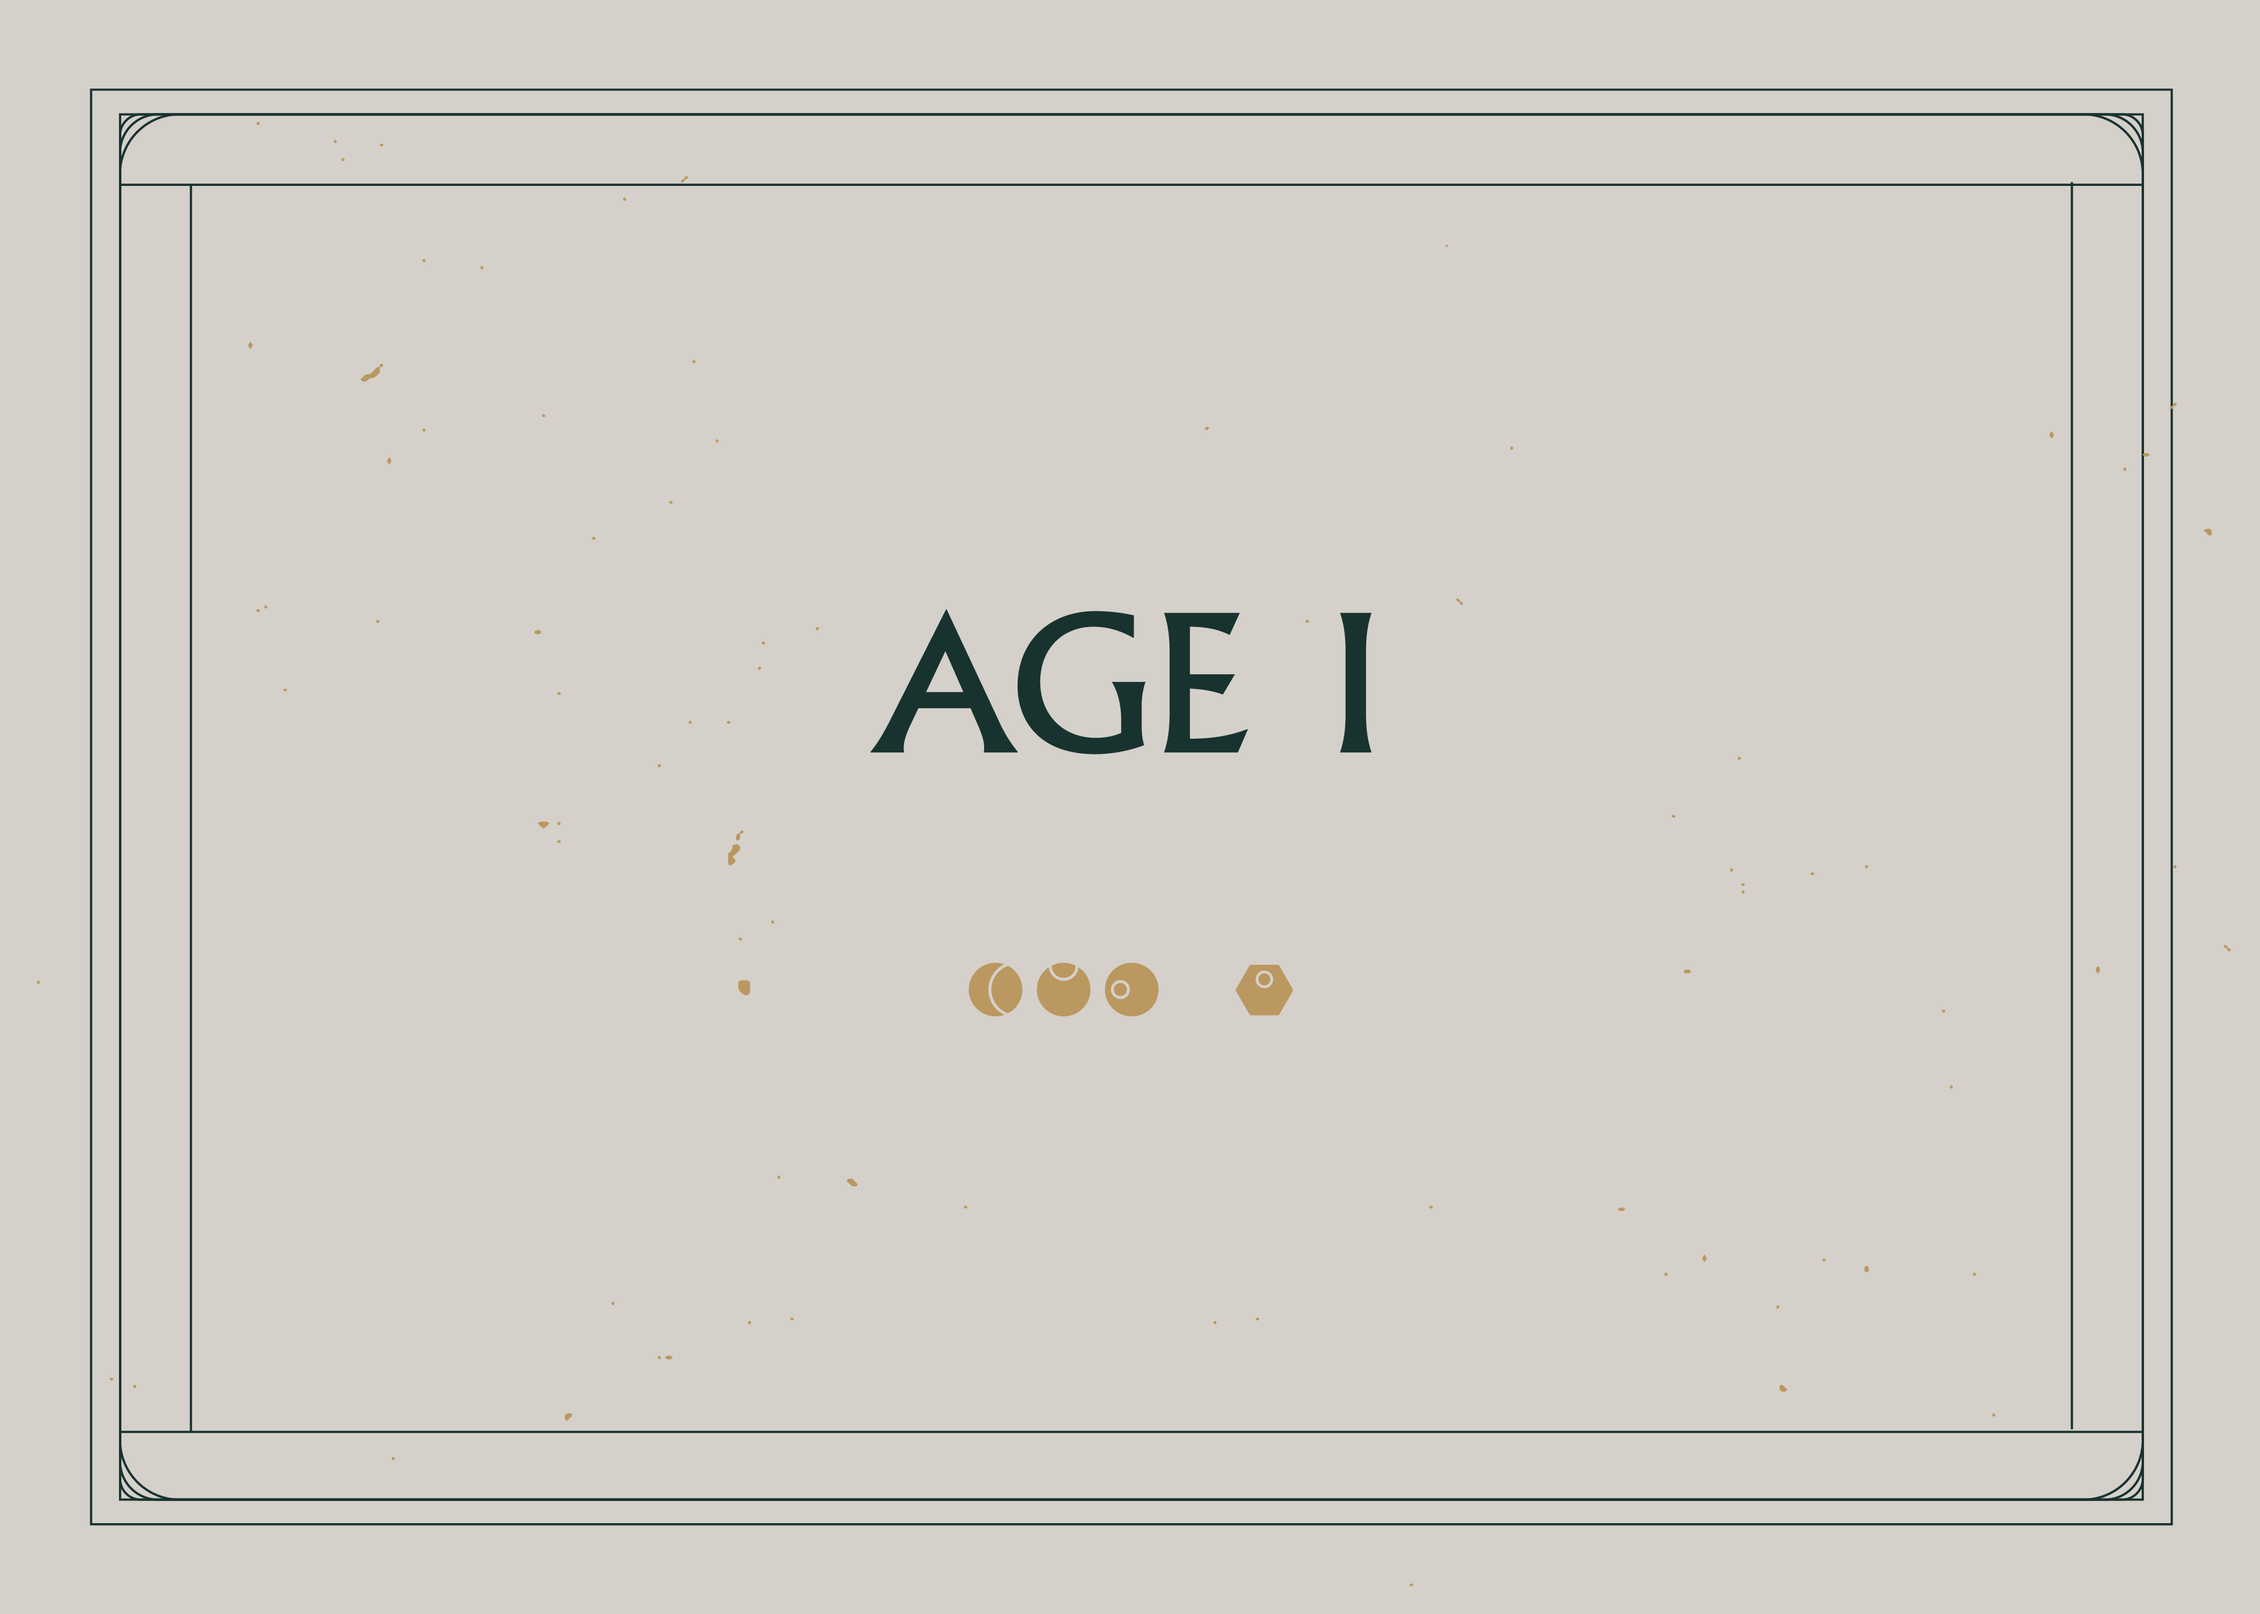
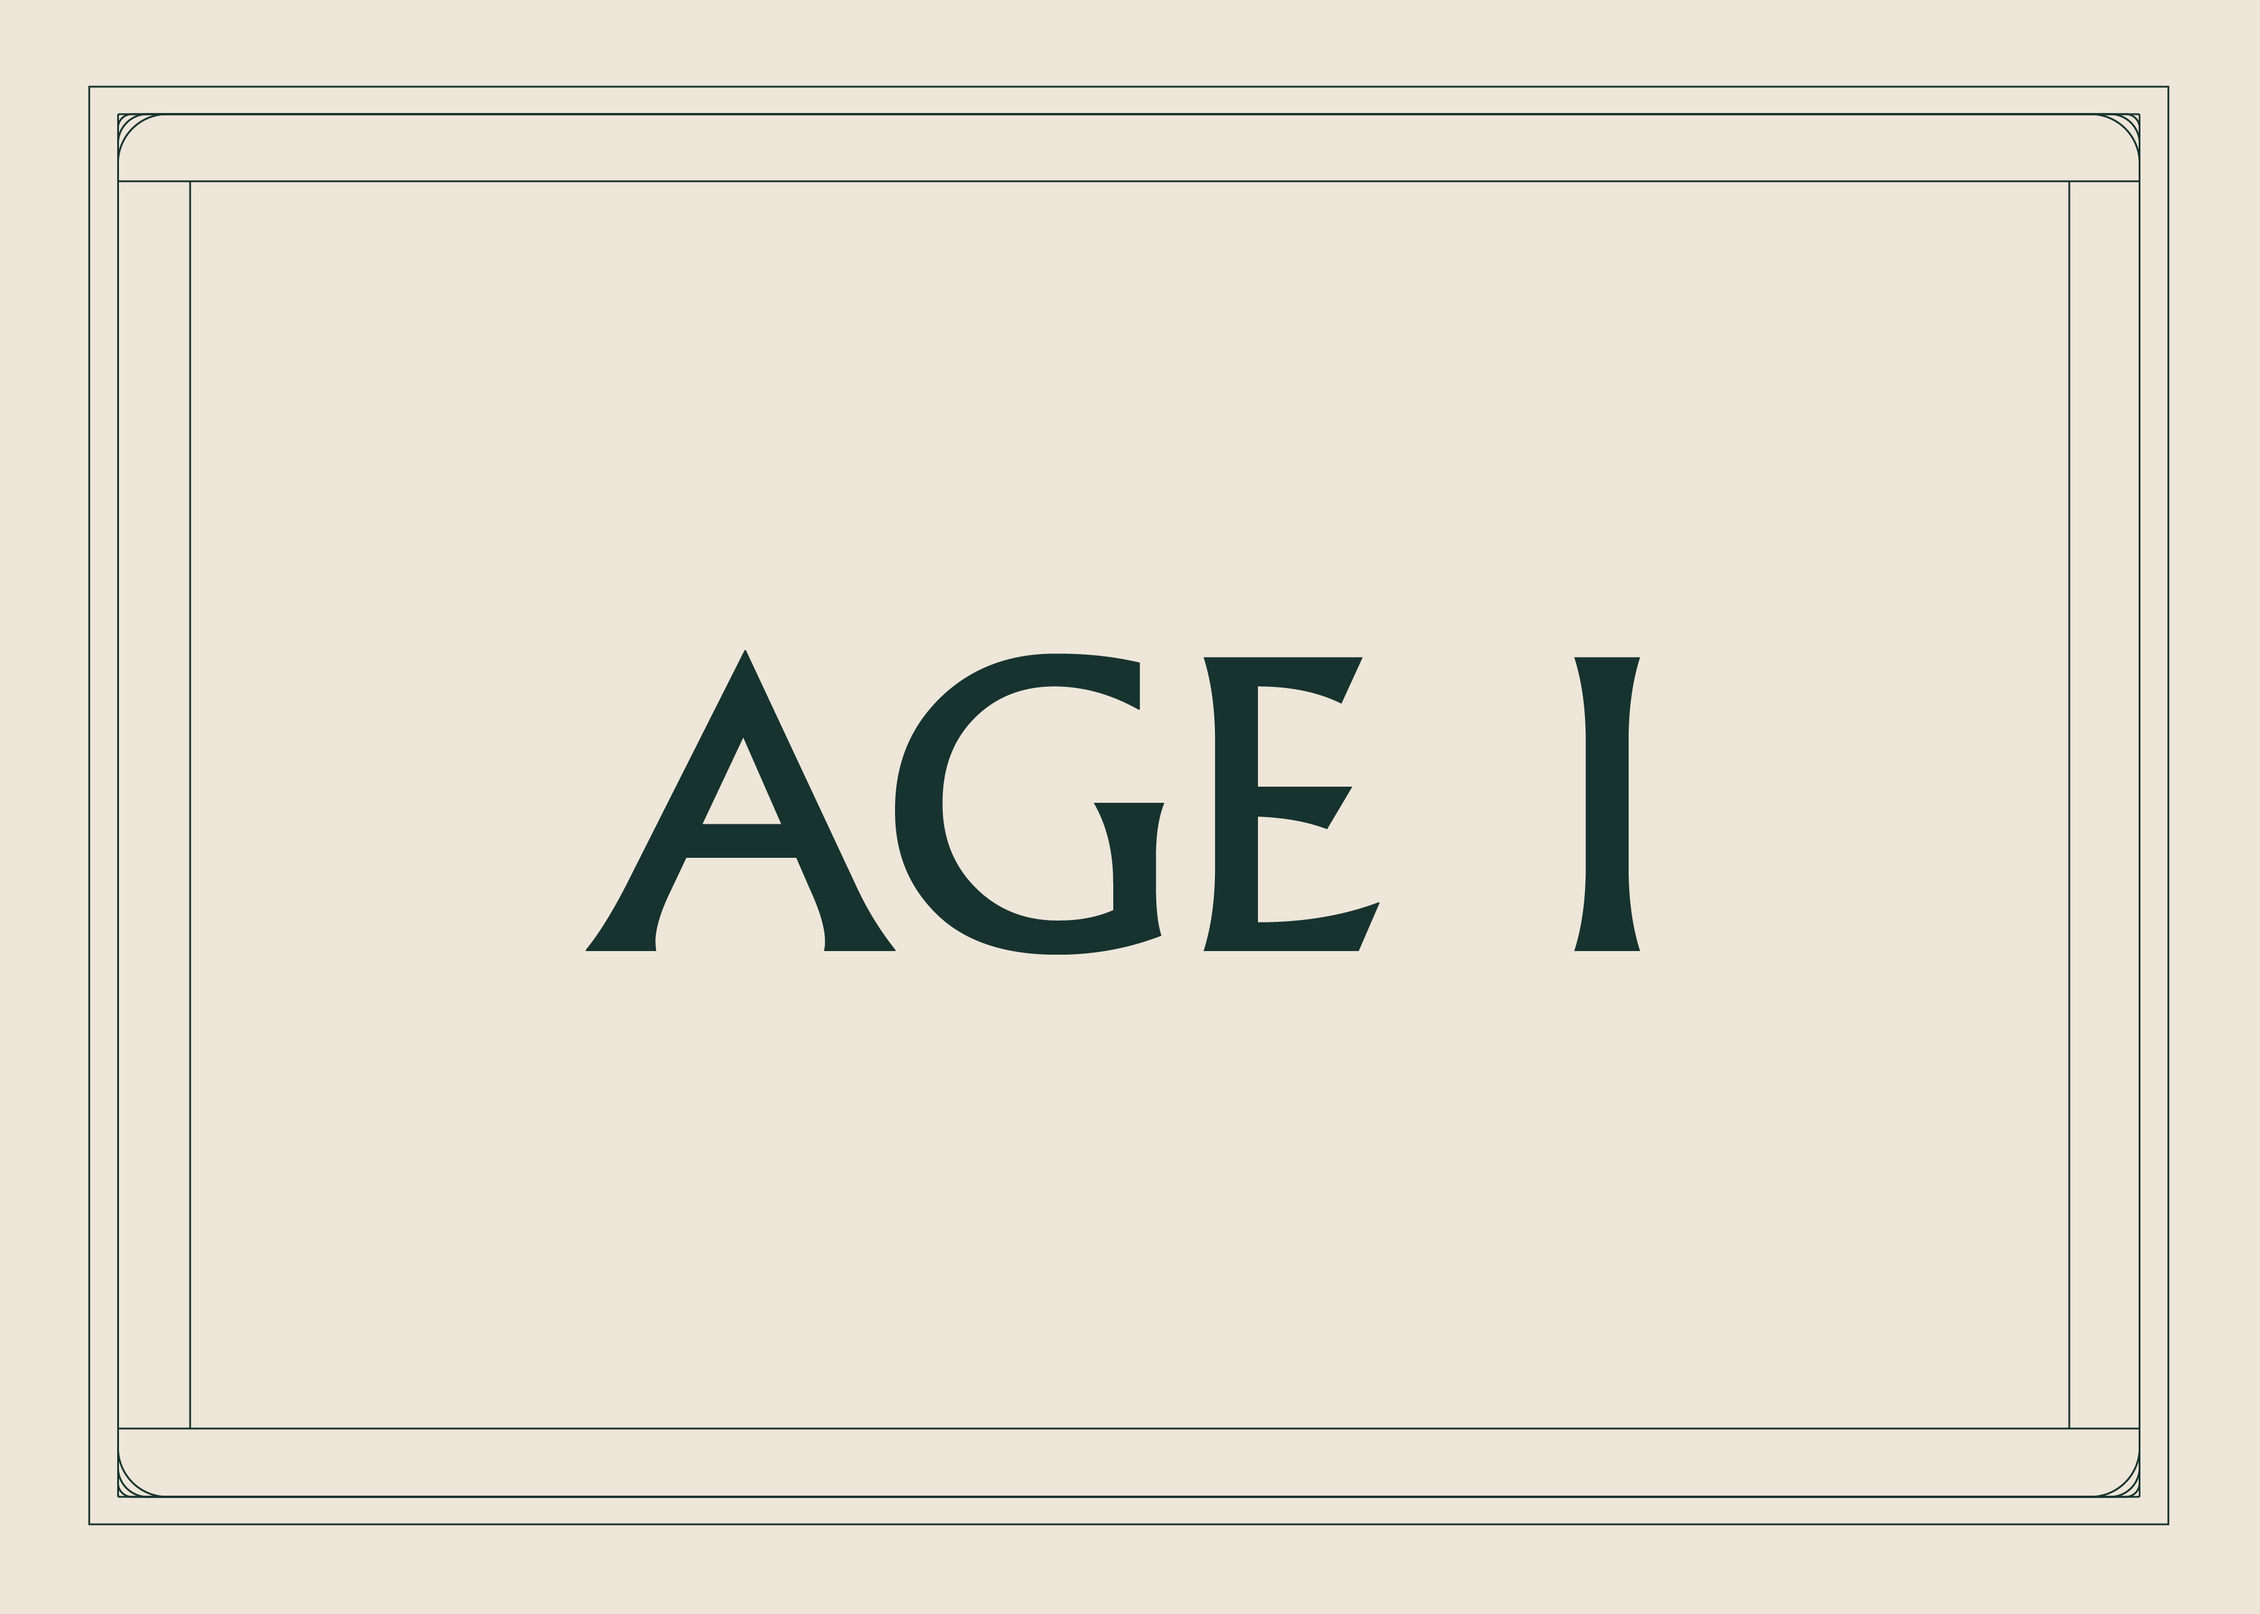
feat: end game hadria animation

Changed region(s): [[0.0312, 0.0622, 0.9677, 0.9333], [0.2497, 0.3733, 0.6243, 0.6533], [0.6868, 0.4044, 0.7492, 0.5911]]

diff --git a/src/graphics/index.ts b/src/graphics/index.ts
@@ -14,6 +14,8 @@ import {
   GamesData,
 } from '../extension/game-data';
 
+let resetFuncs: (() => void)[] = [];
+
 const demigodMarkers: {
   [k: string]: {
     marker: SVGGraphicsElement | null;
@@ -110,40 +112,137 @@ function initToggle(gameName: string, toggleName: string) {
   });
 }
 
-initToggle('Veiled Fate', 'Age');
-initToggle('Veiled Fate', 'Age Card Side');
-initToggle('Veiled Fate', 'Celestial');
-initToggle('Veiled Fate', 'Celestial Info');
+function inits() {
+  initToggle('Veiled Fate', 'Age');
+  initToggle('Veiled Fate', 'Age Card Side');
+  initToggle('Veiled Fate', 'Celestial');
+  initToggle('Veiled Fate', 'Celestial Info');
 
-const vfSvgObject = document.getElementById('vf-svg-object') as HTMLObjectElement;
-vfSvgObject.addEventListener('load', () => {
-  setTimeout(() => {
-    const svgDoc = vfSvgObject.contentDocument;
-    if (svgDoc) {
-      Object.keys(demigodMarkers).forEach((key) => {
-        const markerId = key.toLowerCase() + '-marker';
-        const marker = svgDoc.getElementById(markerId);
-        if (marker) demigodMarkers[key].marker = marker as any as SVGGraphicsElement;
-      });
-      hadriaDamageCracks.element = svgDoc.getElementById('hadria-danger') as any as SVGGraphicsElement;
-      if (hadriaDamageCracks.element) {
-        hadriaDamageCracks.element.style.clipPath = 'inset(0 0 0 8.33%)';
-        hadriaDamageCracks.old === 8.33;
-        hadriaDamageCracks.val;
-      }
-      initArray('Veiled Fate', 'Demigods');
-      initArray('Veiled Fate', 'Hadria');
-    } else nodecg.log.error(`Can't load Veiled Fate .svg`);
-  }, 500);
-});
-const vfSvgData = vfSvgObject.data;
-vfSvgObject.data = '';
-vfSvgObject.data = vfSvgData;
+  const vfSvgObject = document.getElementById('vf-svg-object') as HTMLObjectElement;
+  vfSvgObject.addEventListener('load', () => {
+    setTimeout(() => {
+      const svgDoc = vfSvgObject.contentDocument;
+      if (svgDoc) {
+        Object.keys(demigodMarkers).forEach((key) => {
+          const markerId = key.toLowerCase() + '-marker';
+          const marker = svgDoc.getElementById(markerId);
+          if (marker) demigodMarkers[key].marker = marker as any as SVGGraphicsElement;
+        });
+        hadriaDamageCracks.element = svgDoc.getElementById('hadria-danger') as any as SVGGraphicsElement;
+        if (hadriaDamageCracks.element) {
+          hadriaDamageCracks.element.style.clipPath = 'inset(0 0 0 8.33%)';
+          hadriaDamageCracks.old === 8.33;
+          hadriaDamageCracks.val;
+        }
+        initArray('Veiled Fate', 'Demigods');
+        initArray('Veiled Fate', 'Hadria');
+      } else nodecg.log.error(`Can't load Veiled Fate .svg`);
+    }, 500);
+  });
+  const vfSvgData = vfSvgObject.data;
+  vfSvgObject.data = '';
+  vfSvgObject.data = vfSvgData;
+}
+
+inits();
 
 nodecg.listenFor('animate', (arg) => {
   if (arg.array) {
     animateArray(arg);
   } else animateToggle(arg);
+});
+
+nodecg.listenFor('resetGame', () => {
+  for (let i = 0; i < resetFuncs.length; i++) {
+    resetFuncs[i]();
+  }
+  resetFuncs = [];
+  inits();
+});
+
+nodecg.listenFor('endGame', (arg) => {
+  switch (arg) {
+    case 'Veiled Fate': {
+      NodeCG.waitForReplicants(gamesdataRep, gamesRep).then(() => {
+        if (gamesdataRep.value && gamesdataRep.value['Veiled Fate'] && gamesRep.value) {
+          const vf = gamesdataRep.value['Veiled Fate'];
+          if (vf.arrays.Hadria.length) {
+            const hadriaRenown = vf.arrays.Hadria[0].renown.val;
+            const demigods = vf.arrays.Demigods;
+            for (let i = 0; i < demigods.length; i++) {
+              const demigod = demigods[i];
+              const demigodImagedef = gamesRep.value[arg].arrays.Demigods.fields.image;
+              if (demigod.renown.val > hadriaRenown && demigodImagedef.type === 'image') {
+                const demigodName = demigodImagedef.values[+demigod.image.val].name;
+                const demigodLocal = demigodMarkers[demigodName];
+                const marker = demigodLocal.marker;
+                if (marker) {
+                  const animUp = document.createElementNS('http://www.w3.org/2000/svg', 'animateTransform');
+                  animUp.setAttributeNS(null, 'attributeName', 'transform');
+                  animUp.setAttributeNS(null, 'type', 'translate');
+                  animUp.setAttributeNS(null, 'values', `-27 13; -27 -23`);
+                  animUp.setAttributeNS(null, 'dur', `1000ms`);
+                  animUp.setAttributeNS(null, 'begin', 'indefinite');
+                  animUp.setAttributeNS(null, 'fill', 'freeze');
+                  animUp.setAttributeNS(null, 'calcMode', 'spline');
+                  animUp.setAttributeNS(null, 'keySplines', '0.5 0 0.5 1');
+                  const animGrab = document.createElementNS('http://www.w3.org/2000/svg', 'animate');
+                  animGrab.setAttributeNS(null, 'attributeName', 'd');
+                  animGrab.setAttributeNS(
+                    null,
+                    'values',
+                    `M 16.4,54.1l 5.5,-8.8c 0.3,-0.7 3.3,-3.6 4.9,-4.3c 1.6,-0.7 7.5,-0.7 7.9,-0.7c 0.4,0 2.3,0.4 3.3,-1.2c 0.4,-0.5 4.9,-5.2 5.4,-6.7c 0.3,-1 -0.7,-3 -1.7,-4.8c -0.2,-0.5 -0.3,-1.1 -0.4,-1.9c 1.2,-2.9 6.2,-7.6 6.3,-9.3c 0.1,-1.7 -1.7,-7.1 -2.9,-7.8c -0.9,-0.3 -5.4,-2.7 -7.1,-0.3c 3.7,-0.2 4.8,2.3 4.8,2.3c 0,0 1,4.3 1.2,5.6c -3.1,2.1 -5.7,6.6 -6.2,7.3c -2,0.6 -7.7,6.1 -8.7,6.3c -1,0.2 -6.3,1.4 -6.3,1.4c -3.1,-0.8 -9.2,-3.6 -10.2,-4.2c -0.3,-0.5 -0.6,-3.9 -1.5,-6c -0.4,-0.8 2,-3.9 4.9,-6.4c -3.9,-0.2 -9.2,3.2 -8.3,6.9c 0.4,1.7 1.7,9.4 1.7,9.4c 0,0 5.1,1.2 5.9,1.9c 0.8,0.7 1.7,2.3 1.6,2.9l -12.2,18.4z M 39.5,29.8c 3,-1.3 8.8,-2.5 10,-3.7c 1.2,-1.2 3.6,-6.3 3.2,-7.7c -0.5,-0.8 -2,-5.5 -4.9,-5c 2.9,2.5 1.9,5 1.9,5c 0,0 -2.3,3.8 -3,4.9c -1.8,-0.3 -3.9,0.2 -5.6,0.9z M 39.4,35.7c 3.2,-0.1 9.2,0.8 10.7,0.2c 1.6,-0.7 4.8,-3.4 5,-4.8c -0.2,-0.9 0.1,-5.9 -2.8,-6.5c 1.7,3.4 -0.1,5.4 -0.1,5.4c 0,0 -2.7,1.5 -3.8,2.2c -1.6,-1 -3.7,-1.2 -5.5,-1.1z;
+									M 16.4,54.1l 5.5,-9c 0.4,-0.7 3.3,-3.6 4.9,-4.3c 1.6,-0.7 7.5,-0.7 7.9,-0.7c 0.4,0 2.4,0.5 3.3,-1.2c 0.4,-0.5 5,-5.2 5.4,-6.7c 0.3,-1 -0.7,-3 -1.7,-4.8c 0,-0.4 -0.1,-0.8 -0.2,-1.2c 1.1,-2.9 2.3,-9.8 2,-11c -0.3,-1.7 -4.9,-7.1 -6.3,-6.6c -0.7,0.5 -6,2.6 -5.9,5.5c 2.1,-3.1 5.4,-2.1 5.4,-2.1c 0,0 2.4,2.7 2.9,3.9c -2.4,2.1 -3,6.3 -3.5,6.9c -2,0.6 -7.2,6.8 -7.3,6.8c -1,0.2 -4.3,0.1 -4.3,0.1c -3.1,-0.8 -7.9,-5.2 -8.3,-6c -0.1,-0.6 0.8,-3.8 0.7,-6.1c 0,-0.9 3.7,-3.1 7.2,-4.4c -3.6,-1.6 -10.3,-0.1 -10.4,3.6c -0.2,1.7 -1.7,9.4 -1.7,9.4c 0,0 4.6,4 5.4,4.7c 0.8,0.7 -0.3,3.5 -0.9,4.6l -12.3,18.6z M42.0,29.8c 0,-3 -1.4,-9.2 -3.5,-9.9c -3.6,-1.1 -8.5,-2.3 -10.4,-2c -3.1,0.9 -5.4,2.8 -8.3,5.8c 1.7,-0.7 8.6,-3.4 9.4,-2.9c 2.2,1.3 5.1,1.8 6.3,2.4c -0.3,1 0.6,5.6 0.6,5.6z M 43.6,32.3c -1.0,-2.8 -2.9,-9.2 -5,-9.2c -3.7,-0.5 -8.7,-1 -10.6,-0.4c -2.9,1.4 -3.5,3.7 -5.8,7c 1.5,-1 6.5,-4.7 7.4,-4.4c 2.3,0.9 5.3,1 6.6,1.4c -0.2,1 1.5,5.4 1.5,5.4z`,
+                  );
+                  animGrab.setAttributeNS(null, 'dur', `1000ms`);
+                  animGrab.setAttributeNS(null, 'begin', 'indefinite');
+                  animGrab.setAttributeNS(null, 'fill', 'freeze');
+                  animGrab.setAttributeNS(null, 'calcMode', 'spline');
+                  animGrab.setAttributeNS(null, 'keySplines', '0.5 0 0.5 1');
+                  const animDown = document.createElementNS('http://www.w3.org/2000/svg', 'animateTransform');
+                  animDown.setAttributeNS(null, 'attributeName', 'transform');
+                  animDown.setAttributeNS(null, 'type', 'translate');
+                  animDown.setAttributeNS(null, 'values', `0 0; 0 40`);
+                  animDown.setAttributeNS(null, 'dur', `1000ms`);
+                  animDown.setAttributeNS(null, 'begin', 'indefinite');
+                  animDown.setAttributeNS(null, 'fill', 'freeze');
+                  animDown.setAttributeNS(null, 'calcMode', 'spline');
+                  animDown.setAttributeNS(null, 'keySplines', '0.5 0 0.5 1');
+                  const hexAndClaw = marker.children[marker.children.length - 1] as SVGGElement;
+                  const claw = hexAndClaw.children[hexAndClaw.children.length - 1] as SVGPathElement;
+                  (animUp as any).onend = () => {
+                    claw.appendChild(animGrab);
+                    resetFuncs.push(() => {
+                      claw.removeChild(animGrab);
+                    });
+                    animGrab.beginElement();
+                  };
+                  (animGrab as any).onend = () => {
+                    hexAndClaw.appendChild(animDown);
+                    resetFuncs.push(() => {
+                      hexAndClaw.removeChild(animDown);
+                    });
+                    animDown.beginElement();
+                  };
+                  claw.appendChild(animUp);
+                  resetFuncs.push(() => {
+                    claw.removeChild(animUp);
+                  });
+                  animUp.beginElement();
+                }
+              }
+            }
+          }
+        }
+      });
+
+      break;
+    }
+    default: {
+      nodecg.log.error(`Code endGame for game "${arg}"`);
+      break;
+    }
+  }
 });
 
 function animateToggle(arg: AnimateToggleArg) {

diff --git a/src/dashboard/main.ts b/src/dashboard/main.ts
@@ -26,6 +26,18 @@ const gameSelectorDiv = document.getElementById('game-selector') as HTMLDivEleme
 const arrayHolder = document.getElementById('array-holder') as HTMLDivElement;
 const toggleHolder = document.getElementById('toggle-holder') as HTMLDivElement;
 const resetButton = document.getElementById('reset') as HTMLButtonElement;
+const endButton = document.getElementById('end') as HTMLButtonElement;
+endButton.onclick = () => {
+	if (confirm('Really end the game?')) {
+    NodeCG.waitForReplicants(activeGameRep)
+      .then(() => {
+        return nodecg.sendMessage('endGame', activeGameRep.value);
+      })
+      .catch((err) => {
+        nodecg.log.error(err);
+      });
+  }
+}
 resetButton.onclick = () => {
   if (confirm('Really reset the game?')) {
     NodeCG.waitForReplicants(activeGameRep)

diff --git a/src/dashboard/main.html b/src/dashboard/main.html
@@ -128,6 +128,7 @@
     <div id="toggle-holder"></div>
     <div id="every-game-buttons">
       <button id="reset">Reset Game</button>
+			<button id="end">End Game</button>
     </div>
   </body>
   <script>
